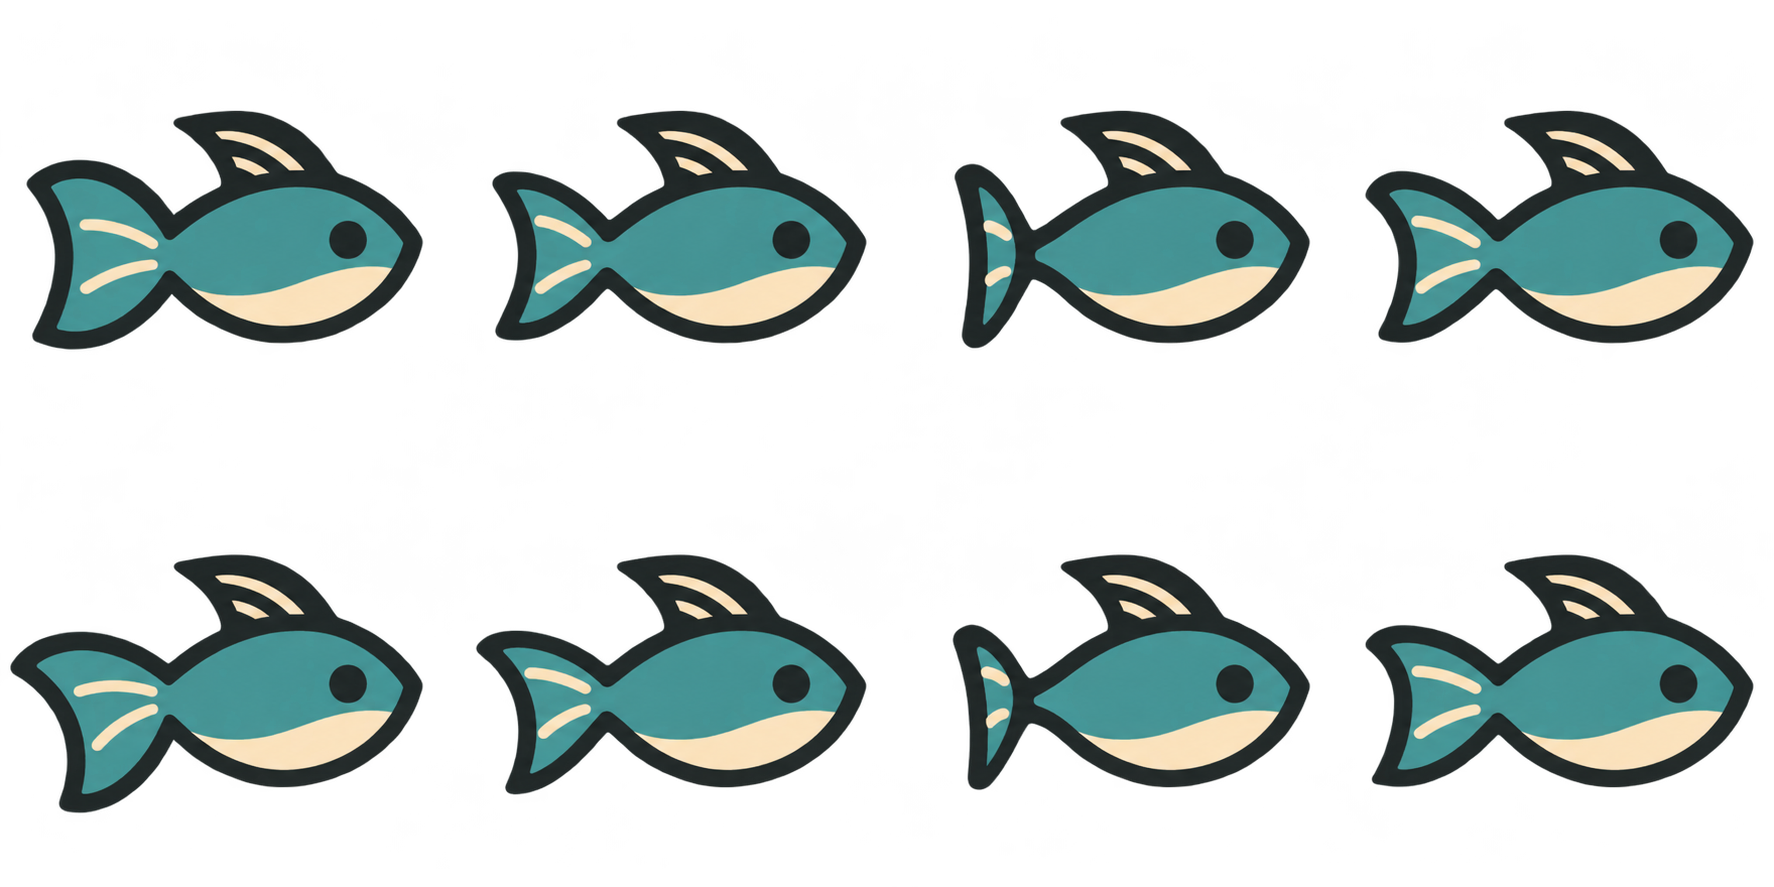
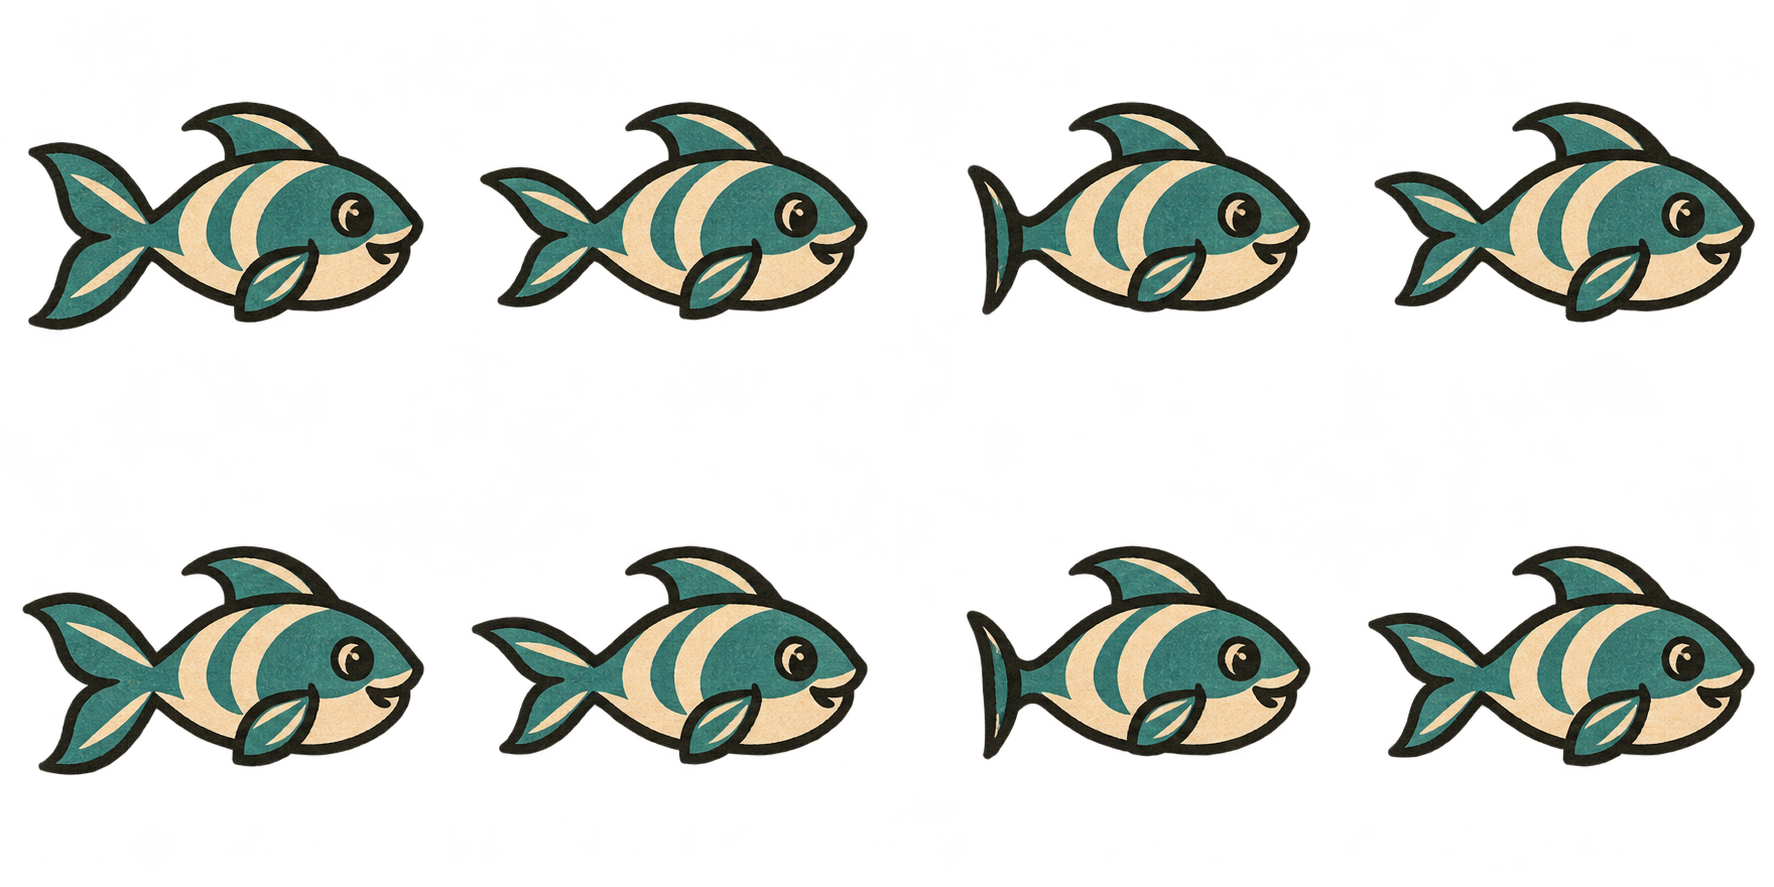
Restore playful fish styling at measured game-relative sizes

diff --git a/src/game.js b/src/game.js
@@ -149,9 +149,10 @@ class ReefScene extends Phaser.Scene {
   constructor() { super('ReefScene'); }
   init(data) { this.autoStart = Boolean(data?.autoStart); }
   preload() {
+    this.load.json('game-art-manifest','/images/game/manifest.json?v=balanced-fish-6');
     this.load.image('reef-print', '/images/game/reef.webp');
     for (const [key,file] of [['reef-diver','diver-swim'],['fish-reef','gold-swim'],['fish-moon','teal-swim'],['fish-coral','coral-swim'],['reef-shark','shark-swim'],['villager-0','malia-idle'],['villager-1','tane-idle'],['villager-2','piko-idle']]) {
-      this.load.spritesheet(key, `/images/game/${file}.webp?v=simple-fish-idle-5`, {frameWidth:256,frameHeight:256});
+      this.load.spritesheet(key, `/images/game/${file}.webp?v=balanced-fish-6`, {frameWidth:256,frameHeight:256});
     }
     this.load.image('village-art','/images/game/village-night.webp');
     this.load.image('boat-art','/images/game/boat.webp');
@@ -247,7 +248,9 @@ class ReefScene extends Phaser.Scene {
       [1570, 215, 'fish-reef', 'reef dart'], [1775, 340, 'fish-moon', 'moonfin'], [2060, 266, 'fish-coral', 'coral wrasse'],
     ];
     fishDefs.forEach(([x, y, texture, name], index) => {
-      const sprite = this.fishGroup.create(x, y, texture).setDisplaySize(texture==='fish-reef'?56:66,texture==='fish-reef'?56:66).setDepth(7);
+      const artKey={'fish-reef':'gold-swim','fish-moon':'teal-swim','fish-coral':'coral-swim'}[texture];
+      const size=this.cache.json.get('game-art-manifest')[artKey].displayFrameSize;
+      const sprite = this.fishGroup.create(x, y, texture).setDisplaySize(size,size).setDepth(7);
       if(!reducedMotion)sprite.play(texture+'-loop');
       sprite.setBodySize(160, 100); sprite.body.setAllowGravity(false); sprite.setData({ name, baseY: y, phase: index * .91, pace: 16 + (index % 3) * 8 });
       this.fishList.push(sprite);

diff --git a/public/index.html b/public/index.html
@@ -7,8 +7,8 @@
   <meta name="description" content="Dive the reef, bring home fish, and help a village rebuild in Reefkeeper.">
   <title>Reefkeeper — Charlie's Game Lab</title>
   <link rel="preload" as="image" href="/images/reefkeeper-key-art.png">
-  <link rel="stylesheet" href="/style.css?v=simple-fish-idle-5">
-  <script src="/reefkeeper-2d.js?v=simple-fish-idle-5" defer></script>
+  <link rel="stylesheet" href="/style.css?v=balanced-fish-6">
+  <script src="/reefkeeper-2d.js?v=balanced-fish-6" defer></script>
 </head>
 <body>
   <div class="shell">

diff --git a/docs/game-art-pack.md b/docs/game-art-pack.md
@@ -146,10 +146,14 @@ Example sheet prompt structure:
 - Browser smoke coverage includes keyboard and touch movement, capture, keepsake return, night conversations, a second active dive, and saved progress.
 - Built-in imagegen created the illustration and pose sheets. Sharp performs format conversion and frame packing; gifenc encodes the animated proof.
 
-## Small fish readability revision
+## Superseded minimal-fish trial
 
-Redraw the blue/teal moonfin and red coral wrasse for roughly55 ×28 visible game pixels. Use a strong charcoal silhouette, one flat body color, one cream belly wedge, one dark eye, and at most two fin-ray strokes. Remove fine scale marks, ornamental spirals, crosshatching, speckles and busy internal patterns. Retain the4 ×2 transparent eight-frame tail-animation grid and fixed body/eye anchors. Built-in imagegen generated the replacement sheets; source provenance records the selected outputs.
+This earlier trial was rejected as too simple. Its brief was to redraw the blue/teal moonfin and red coral wrasse for roughly55 ×28 visible game pixels. Use a strong charcoal silhouette, one flat body color, one cream belly wedge, one dark eye, and at most two fin-ray strokes. Remove fine scale marks, ornamental spirals, crosshatching, speckles and busy internal patterns. Retain the4 ×2 transparent eight-frame tail-animation grid and fixed body/eye anchors. Built-in imagegen generated the replacement sheets; source provenance records the selected outputs.
 
 ## Diver locomotion states
 
 Swim frames play only while keyboard, touch direction, or an active click-to-swim destination commands movement. On input release or destination arrival, transition to a fixed neutral frame with a gentle float/roll. Idle floating has no kicking or arm-stroke loop. Losing focus releases input and cancels the destination; keyboard/touch movement takes priority over a previous click destination. Reduced-motion mode holds the neutral pose.
+
+## Playful fish revision
+
+The minimal icon-like red/blue candidates were replaced. The selected imagegen prompt asks for expressive hand-carved silhouettes, lively eyes, compact characterful fins, two broad flank markings and restrained dry-ink texture. Exclude dense scale patterns and fine hatchwork. Keep each eight-frame tail cycle anchored. The moonfin target visible length is54 game pixels, the wrasse58 pixels, beside a diver approximately132 pixels long. Preparation measures opaque frame bounds to calculate display scale, rather than assuming transparent frame width equals visible fish length. The runtime and moving preview both read that display scale from the same manifest.
